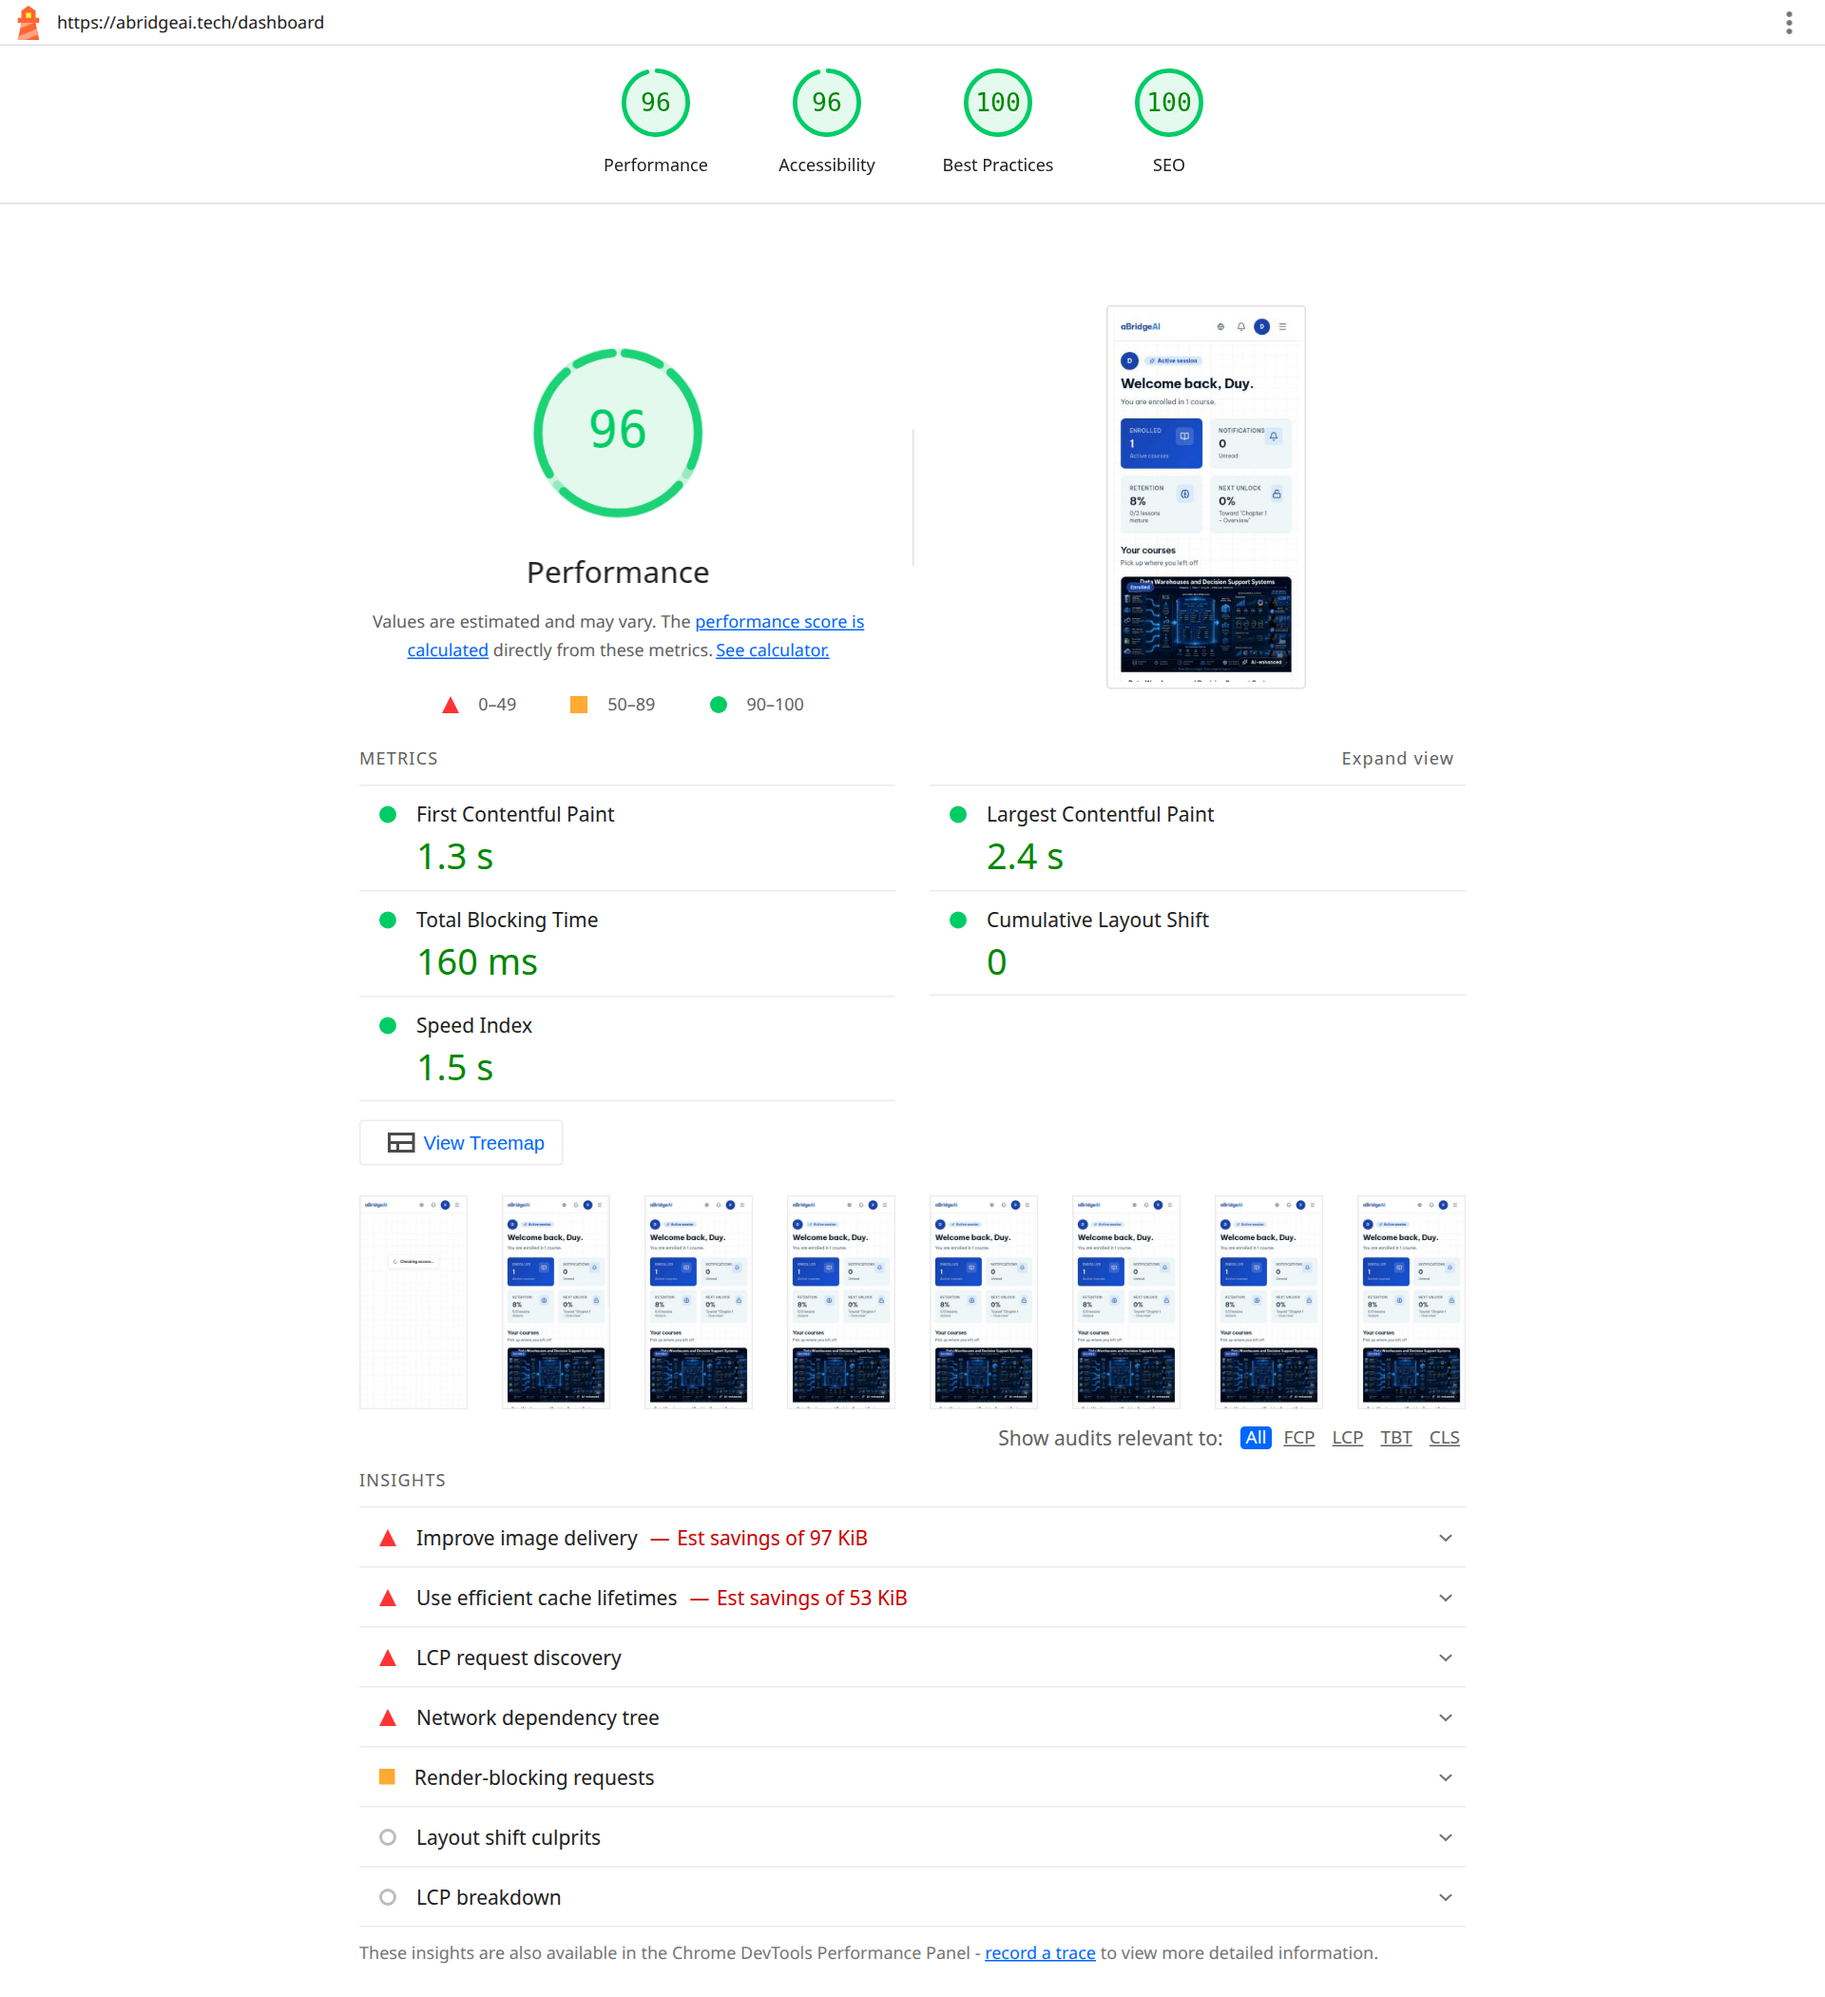
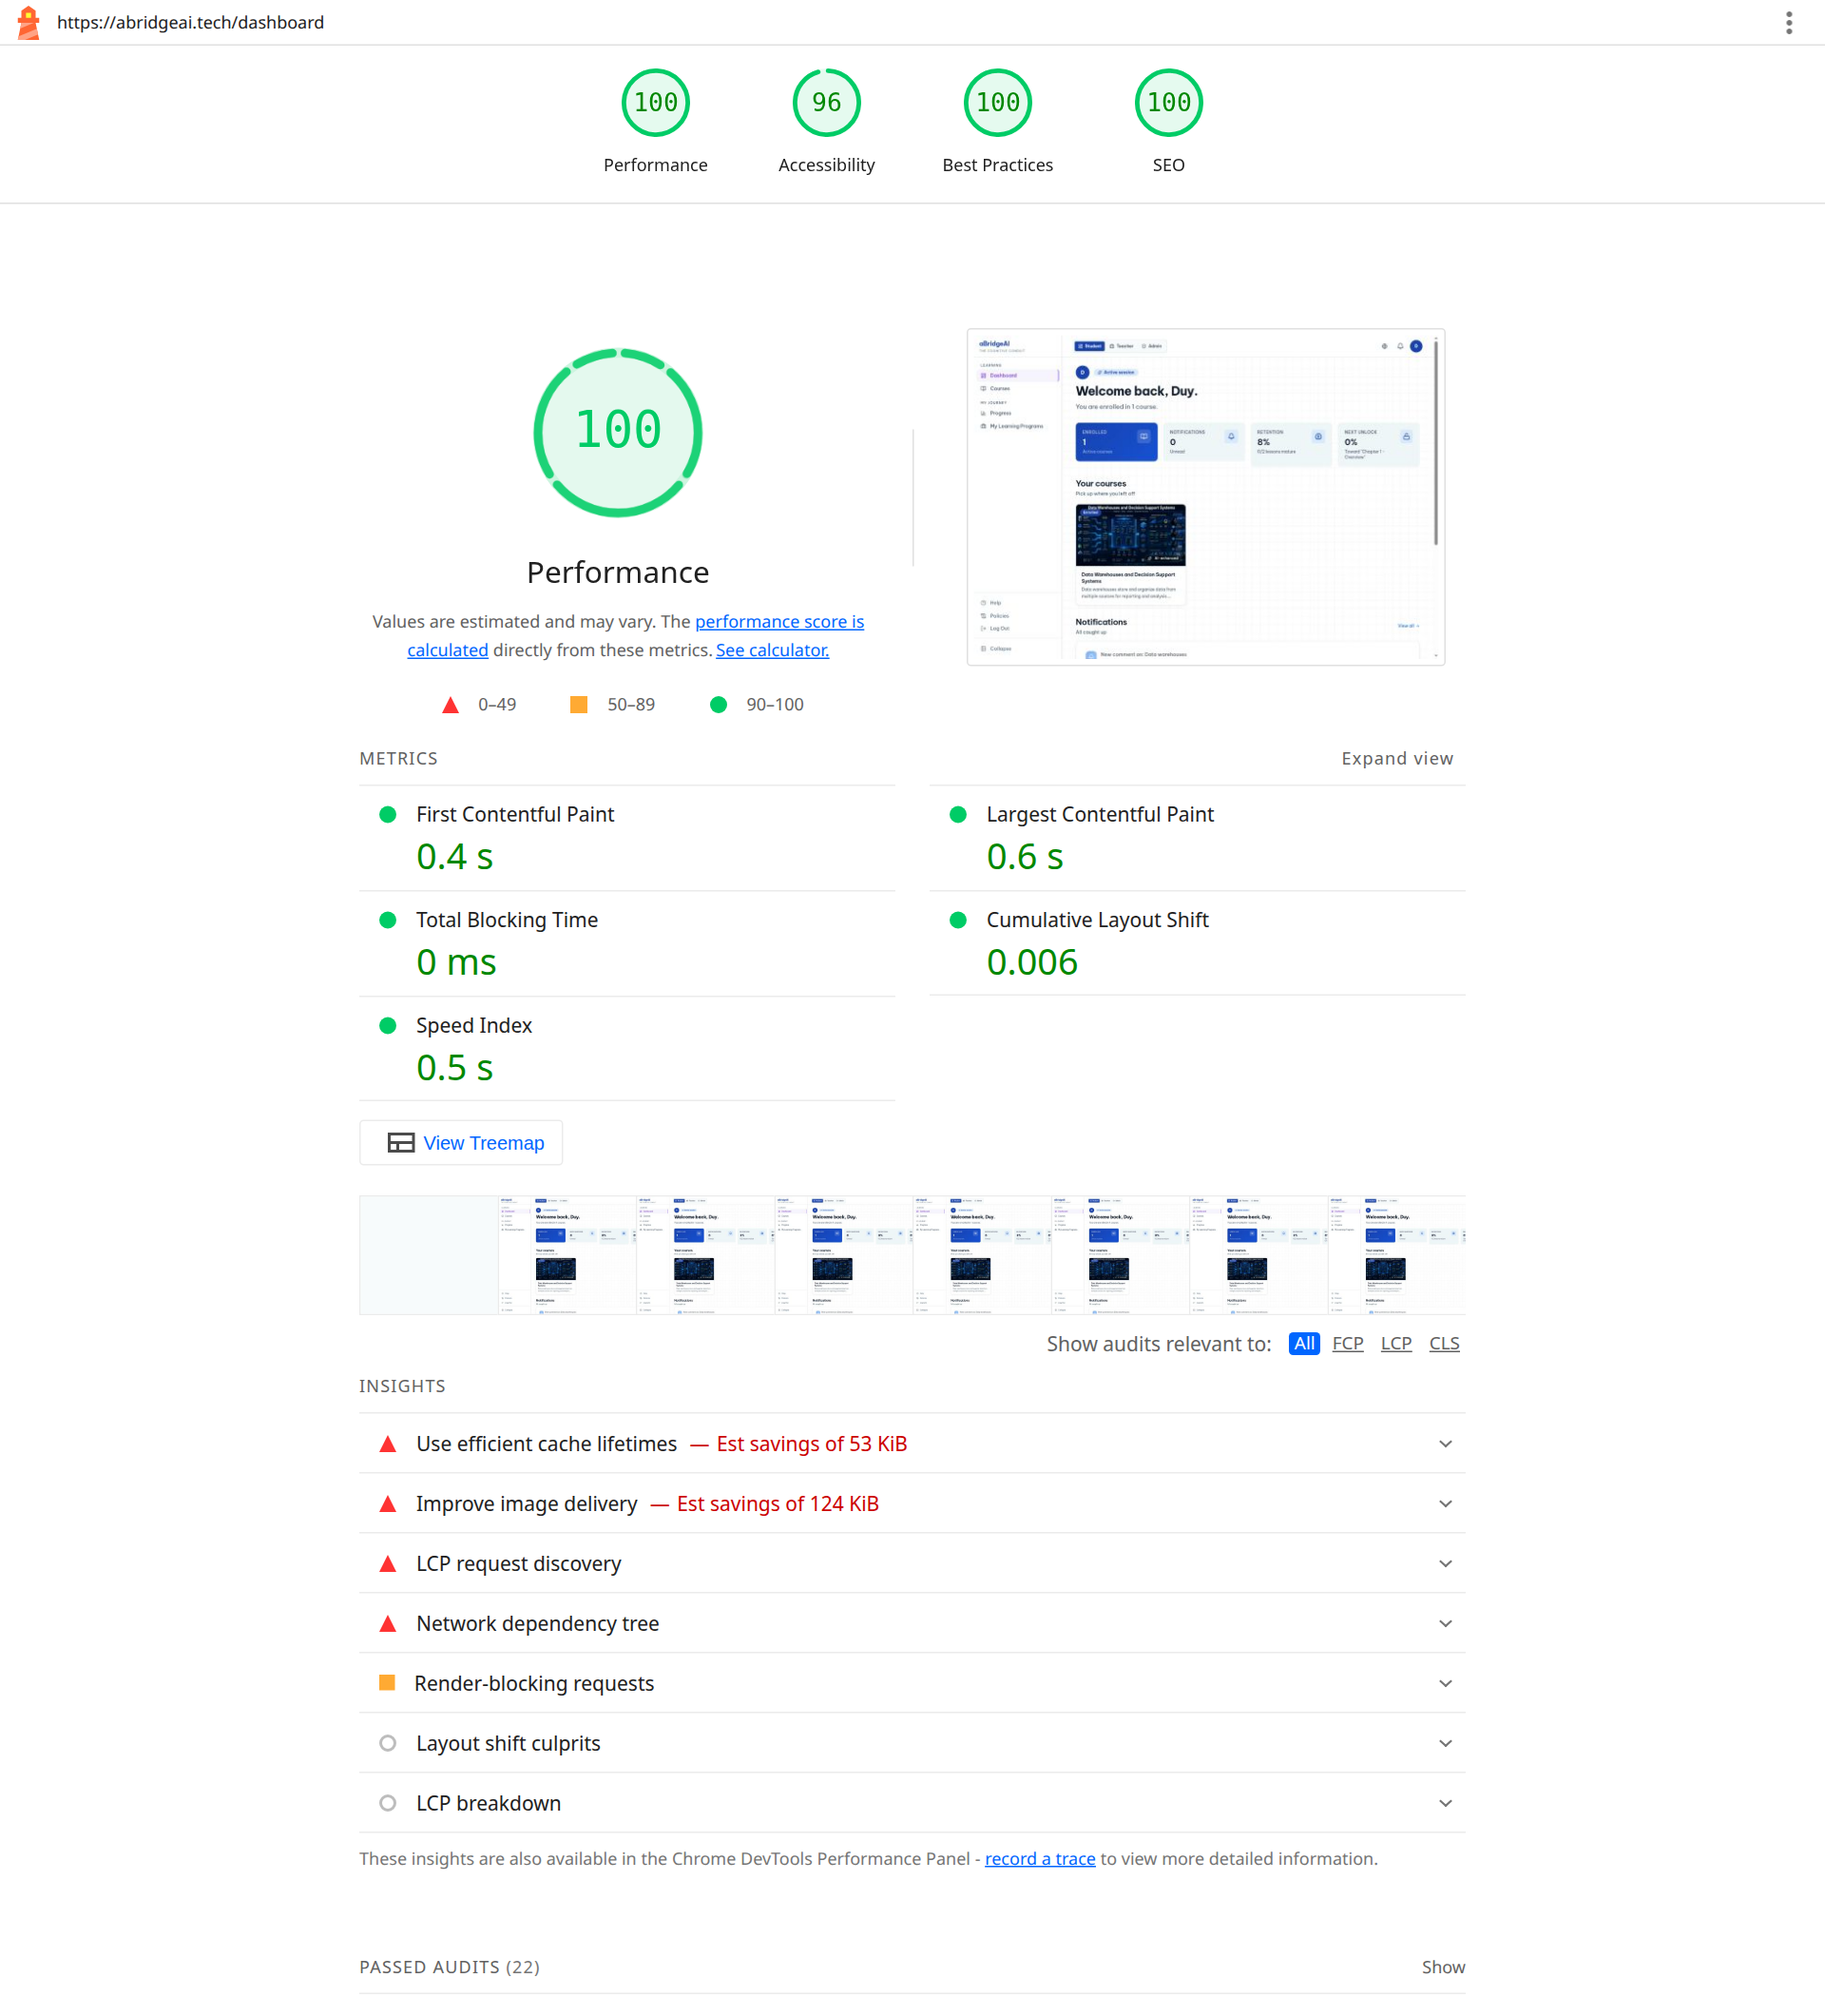
docs: redo Lighthouse appendix with desktop emulation renders
Ultraworked with [Sisyphus](https://github.com/code-yeongyu/oh-my-openagent)

diff --git a/chapters/Appendix/Lighthouse-Reports.tex b/chapters/Appendix/Lighthouse-Reports.tex
@@ -1,7 +1,7 @@
 \section{Lighthouse Audit Reports}
 \label{appendix:lighthouse}
 
-This appendix reproduces the full Google Lighthouse audit evidence for the five pages summarised in Table~\ref{tab:lighthouse_results}. Each audit ran against the production deployment (\path|https://abridgeai.tech|) with desktop emulation, Lighthouse~v13 on Chrome~153. Authenticated pages were audited through a real signed-in session, so the rendered views below show the authenticated application rather than a login redirect.
+This appendix reproduces the Google Lighthouse audit evidence for the five pages summarised in Table~\ref{tab:lighthouse_results}, under the desktop emulation profile. Each audit ran against the production deployment (\path|https://abridgeai.tech|) with Lighthouse~v13 on Chrome~153 (1350$\times$940 viewport, desktop throttling). Authenticated pages were audited through a real signed-in session, so the rendered views below show the authenticated application rather than a login redirect.
 
 For each page, two figures are given: the Lighthouse category scores with the core web-vital metrics, and the final rendered screenshot captured by the audit itself.
 
@@ -12,14 +12,14 @@ For each page, two figures are given: the Lighthouse category scores with the co
 \begin{figure}[H]
     \centering
     \includegraphics[width=0.9\textwidth]{graphics/lighthouse/login_scores.png}
-    \caption{Lighthouse audit scores and metrics for the Login page (Performance 85, Accessibility 100, Best Practices 100, SEO 100).}
+    \caption{Lighthouse audit scores and metrics for the Login page (Performance 100, Accessibility 100, Best Practices 100, SEO 100).}
     \label{fig:lh_login_scores}
 \end{figure}
 
 \begin{figure}[H]
     \centering
     \includegraphics[width=0.9\textwidth]{graphics/lighthouse/login_final.jpg}
-    \caption{Final rendered view of the Login page at audit time.}
+    \caption{Final desktop rendering of the Login page at audit time.}
     \label{fig:lh_login_final}
 \end{figure}
 
@@ -30,14 +30,14 @@ For each page, two figures are given: the Lighthouse category scores with the co
 \begin{figure}[H]
     \centering
     \includegraphics[width=0.9\textwidth]{graphics/lighthouse/dashboard_scores.png}
-    \caption{Lighthouse audit scores and metrics for the Student Dashboard (Performance 96, Accessibility 96, Best Practices 100, SEO 100; CLS 0).}
+    \caption{Lighthouse audit scores and metrics for the Student Dashboard (Performance 100, Accessibility 96, Best Practices 100, SEO 100; CLS 0.006).}
     \label{fig:lh_dashboard_scores}
 \end{figure}
 
 \begin{figure}[H]
     \centering
     \includegraphics[width=0.9\textwidth]{graphics/lighthouse/dashboard_final.jpg}
-    \caption{Final rendered view of the authenticated Student Dashboard at audit time.}
+    \caption{Final desktop rendering of the authenticated Student Dashboard at audit time.}
     \label{fig:lh_dashboard_final}
 \end{figure}
 
@@ -48,14 +48,14 @@ For each page, two figures are given: the Lighthouse category scores with the co
 \begin{figure}[H]
     \centering
     \includegraphics[width=0.9\textwidth]{graphics/lighthouse/courses_scores.png}
-    \caption{Lighthouse audit scores and metrics for the My Courses page (Performance 98, Accessibility 100, Best Practices 100, SEO 100).}
+    \caption{Lighthouse audit scores and metrics for the My Courses page (Performance 100, Accessibility 100, Best Practices 100, SEO 100).}
     \label{fig:lh_courses_scores}
 \end{figure}
 
 \begin{figure}[H]
     \centering
     \includegraphics[width=0.9\textwidth]{graphics/lighthouse/courses_final.jpg}
-    \caption{Final rendered view of the My Courses page at audit time.}
+    \caption{Final desktop rendering of the My Courses page at audit time.}
     \label{fig:lh_courses_final}
 \end{figure}
 
@@ -66,14 +66,14 @@ For each page, two figures are given: the Lighthouse category scores with the co
 \begin{figure}[H]
     \centering
     \includegraphics[width=0.9\textwidth]{graphics/lighthouse/course-detail_scores.png}
-    \caption{Lighthouse audit scores and metrics for the Course Detail page (Performance 94, Accessibility 96, Best Practices 100, SEO 100).}
+    \caption{Lighthouse audit scores and metrics for the Course Detail page (Performance 100, Accessibility 96, Best Practices 100, SEO 100).}
     \label{fig:lh_course_detail_scores}
 \end{figure}
 
 \begin{figure}[H]
     \centering
     \includegraphics[width=0.9\textwidth]{graphics/lighthouse/course-detail_final.jpg}
-    \caption{Final rendered view of the Course Detail page at audit time.}
+    \caption{Final desktop rendering of the Course Detail page at audit time.}
     \label{fig:lh_course_detail_final}
 \end{figure}
 
@@ -84,13 +84,13 @@ For each page, two figures are given: the Lighthouse category scores with the co
 \begin{figure}[H]
     \centering
     \includegraphics[width=0.9\textwidth]{graphics/lighthouse/quiz-attempt_scores.png}
-    \caption{Lighthouse audit scores and metrics for the Quiz Attempt Review page (Performance 96, Accessibility 95, Best Practices 100, SEO 100).}
+    \caption{Lighthouse audit scores and metrics for the Quiz Attempt Review page (Performance 100, Accessibility 95, Best Practices 100, SEO 100).}
     \label{fig:lh_quiz_scores}
 \end{figure}
 
 \begin{figure}[H]
     \centering
     \includegraphics[width=0.9\textwidth]{graphics/lighthouse/quiz-attempt_final.jpg}
-    \caption{Final rendered view of the Quiz Attempt Review page at audit time.}
+    \caption{Final desktop rendering of the Quiz Attempt Review page at audit time.}
     \label{fig:lh_quiz_final}
 \end{figure}
